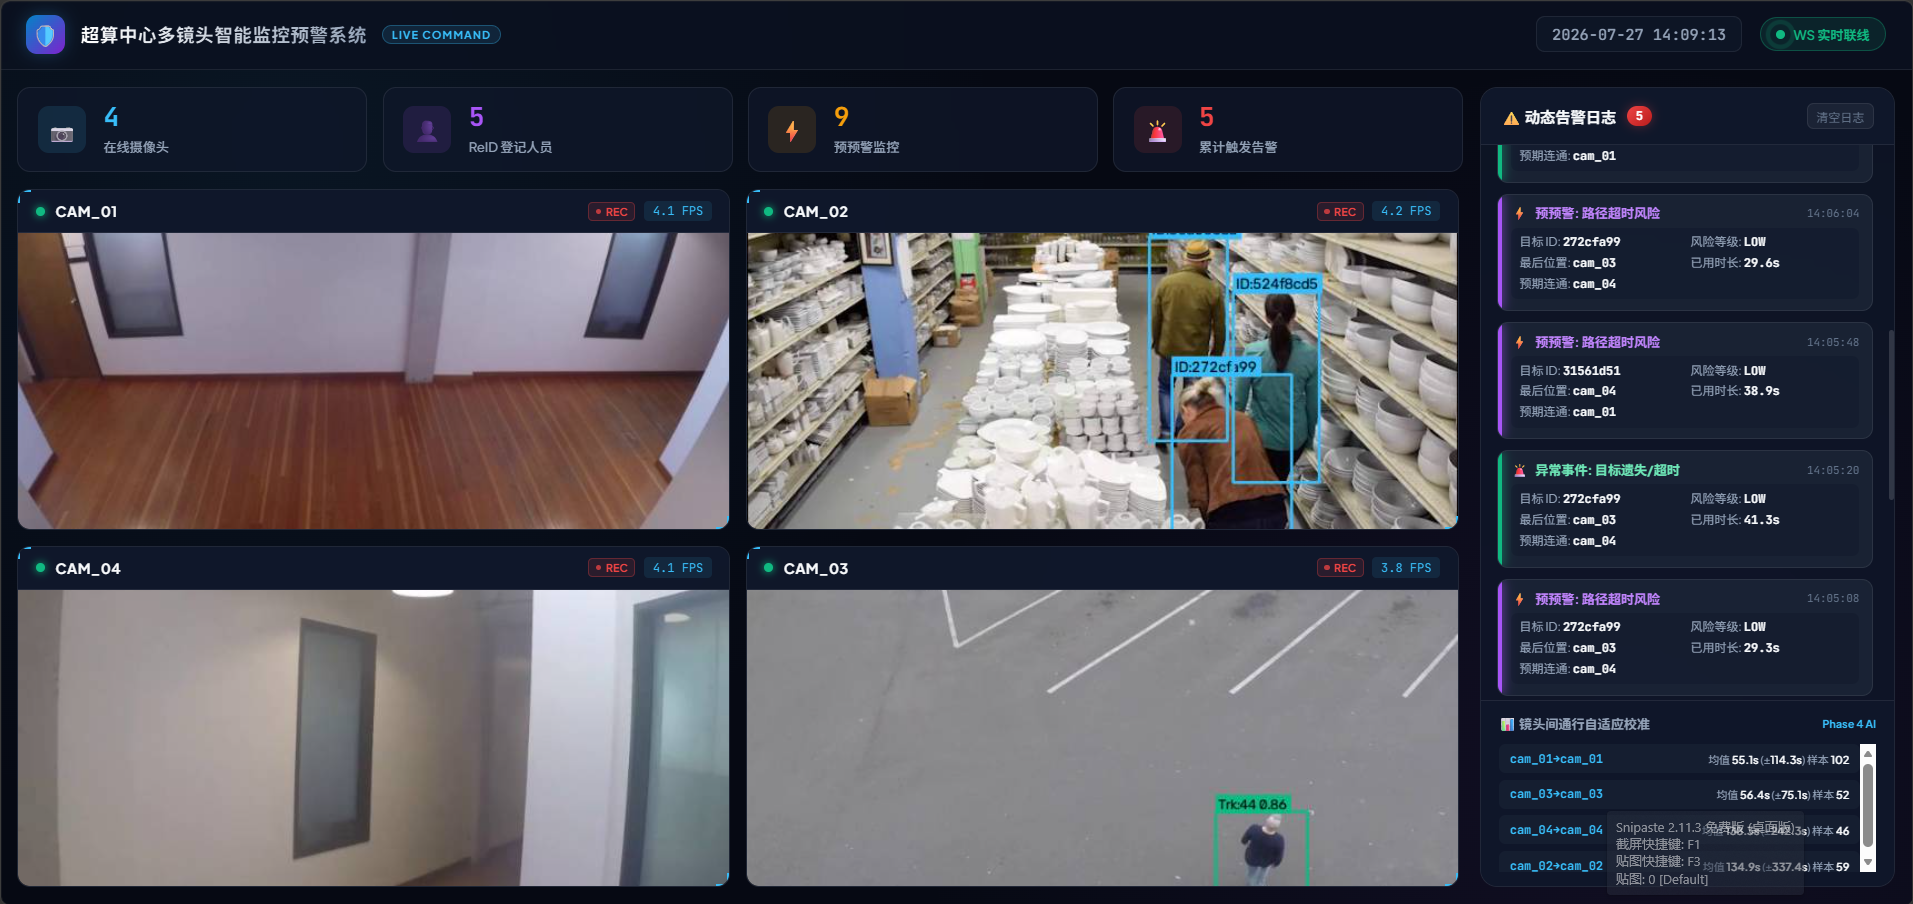
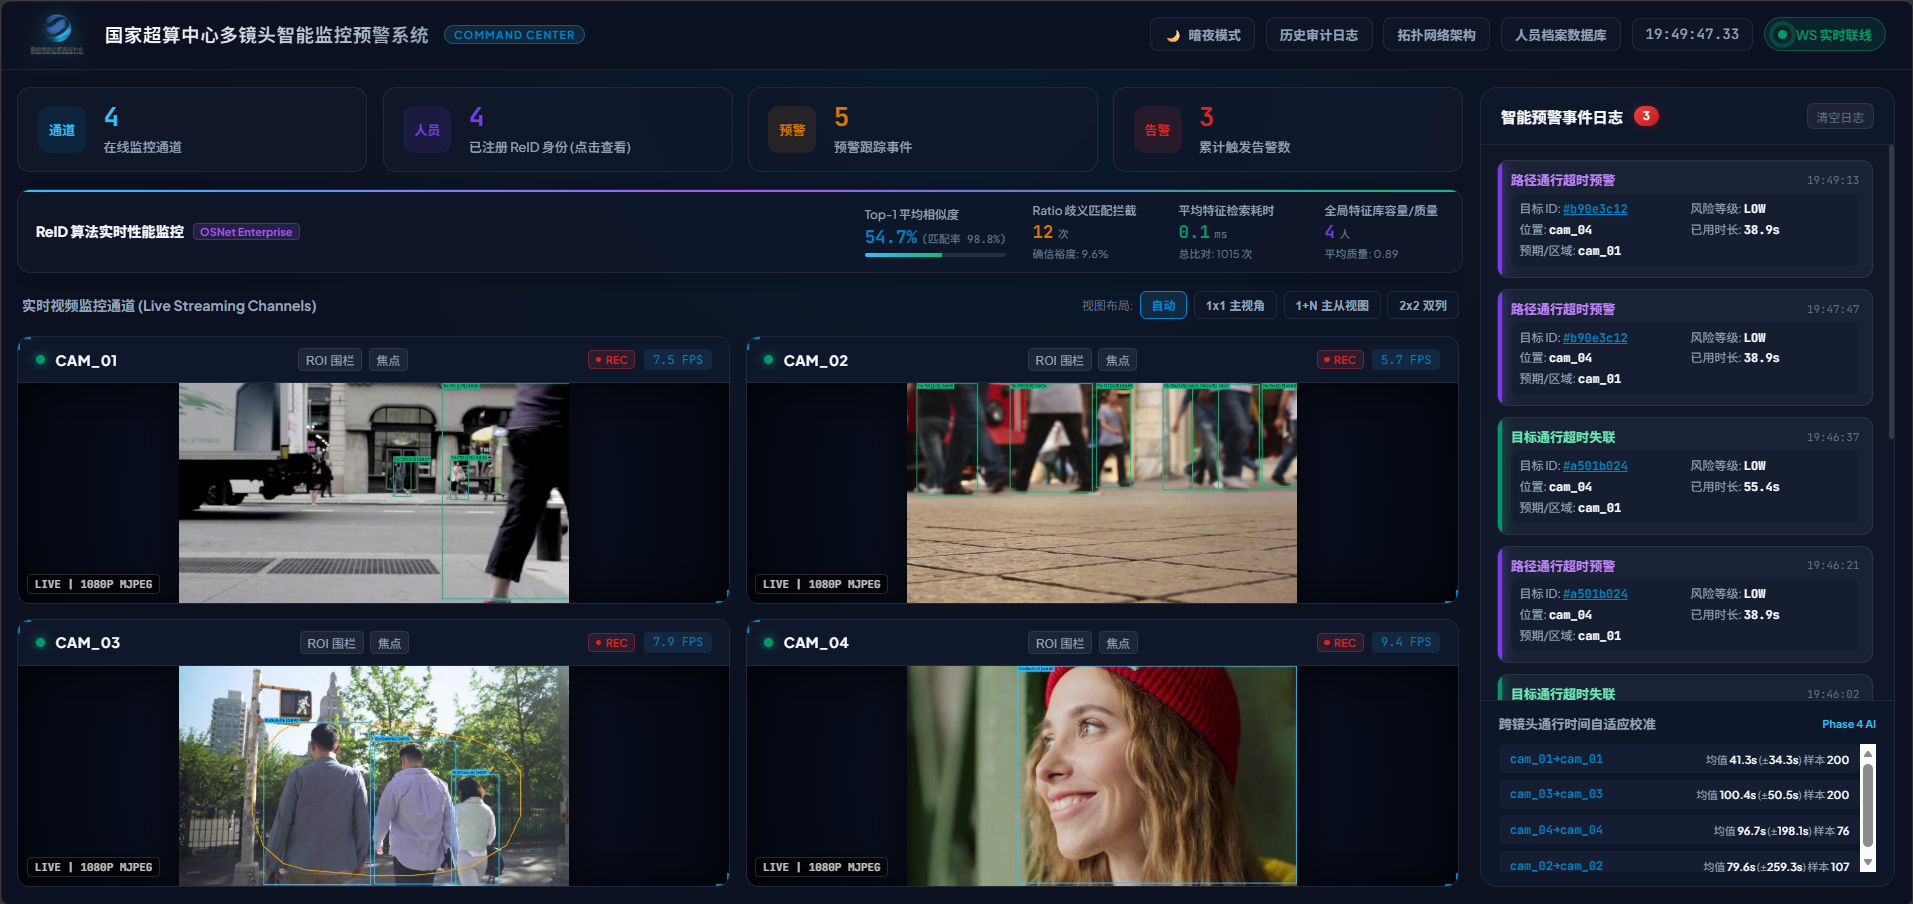
docs: 同步更正系统文档与更新 README 预览图

diff --git a/docs/SYSTEM_PRINCIPLES.md b/docs/SYSTEM_PRINCIPLES.md
@@ -6,7 +6,7 @@
 
 ## 📌 一、 系统总体架构
 
-系统采用 **“多源感知 ➔ ReID 跨摄归一 ➔ 拓扑空间约束 ➔ 智能告警 ➔ 实时指挥大屏”** 的闭环架构：
+系统采用 **“多源感知 ➔ ReID 跨摄归一 ➔ 拓扑空间约束 ➔ 智能告警 ➔ 实时指挥大屏与 SQLite 持久化”** 的闭环架构：
 
 ```
 [ 多路摄像头/视频源 ] (RTSP / 本地文件)
@@ -15,15 +15,16 @@
 [ 1. 目标检测与追踪 ] (YOLOv8 + ByteTrack 实时捕获)
          │
          ▼
-[ 2. 跨镜头身份提取 ] (OSNet 512维特征 + 3帧多帧缓冲校验)
+[ 2. 跨镜头身份提取 ] (OSNet 512维特征 + 3帧多帧缓冲校验 + 多姿态 Feature Bank)
          │
          ▼
 [ 3. 空间与安全判断 ] 
-   ├─► ROI 电子围栏入侵校验 (脚下点多边形在界测试)
-   └─► 拓扑穿越与时间校准 (Z-Score AI 自适应学习)
+    ├─► ROI 电子围栏入侵校验 (脚下点多边形在界测试 cv2.pointPolygonTest)
+    ├─► 拓扑穿越与时间校准 (Z-Score AI 自适应学习)
+    └─► 全域消失与人流密度监控
          │
          ▼
-[ 4. 告警分级与广播 ] (WARNING 预预警 / ALERT 正式告警 / WebSocket 推送)
+[ 4. 告警分级与广播 ] (WARNING 预预警 / ALERT 正式告警 / WebSocket 推送 / SQLite 持久化)
          │
          ▼
 [ 5. 可视化指挥大屏 ] (HTML5 Canvas 交互 / 矢量拓扑图 / 动态日志)
@@ -34,20 +35,21 @@
 ## 🎯 二、 核心技术模块与工作原理
 
 ### 1. 目标检测与单镜头追踪 (Person Detection & Tracking)
-- **使用的技术**：**YOLOv8 (yolov8n.pt)** + **ByteTrack 算法**。
+- **使用的技术**：**YOLOv8 (yolov8n.pt)** + **Ultralytics ByteTrack 算法**。
 - **基本原理**：
-  - **检测**：YOLOv8 算法每帧扫描画面，精准提取出人体的位置边界框 (BBox)。
-  - **追踪**：利用卡尔曼滤波 (Kalman Filter) 预测人员下一帧的位置，配合匈牙利算法做运动匹配，为单镜头内的人员分配连续的轨迹 ID (`Track_ID`)。
+  - **检测**：YOLOv8 算法每帧扫描画面（GPU 下每帧检测，CPU 下隔帧检测+预测），精准提取出人体的位置边界框 (BBox)。
+  - **追踪**：利用 ByteTrack 算法结合卡尔曼滤波 (Kalman Filter) 预测人员下一帧的位置，配合匈牙利算法做运动匹配，为单镜头内的人员分配连续的轨迹 ID (`Track_ID`)。
 
 ---
 
 ### 2. ReID 跨镜头身份归一化 (Cross-Camera Person Re-ID)
 - **解决的痛点**：同一个人在镜头 A 叫 `Track_01`，走到镜头 B 变成 `Track_05`，系统如何识别为“同一个人”？
-- **使用的技术**：**OSNet-x0.25 深度网络** (512维向量) + **多帧缓冲与查重锁**。
+- **使用的技术**：**OSNet-x0.25 深度网络** (512维向量) + **多姿态 Feature Bank** + **多帧缓冲与查重锁**。
 - **基本原理**：
   1. **特征提取**：抠出目标人体图像，由 OSNet 神经网络提炼出一个 512 维的数学特征向量（如同人的“视觉指纹”）。
   2. **多帧确认**：防误判机制，连续 3 帧提取的特征一致时，才正式认定为同一身份。
-  3. **查重与注册**：在全局身份库 (`IdentityStore`) 锁内做余弦相似度匹配（阈值 0.75）。已有匹配归为老身份 `Global_ID`；无匹配则注册新 `Global_ID`。
+  3. **查重与注册**：在全局身份库 (`IdentityStore`) 锁内做余弦相似度匹配（阈值 0.75）与 Ratio Test 歧义过滤。已有匹配归为老身份 `Global_ID`；无匹配则注册新 `Global_ID`。
+  4. **多姿态特征库**：自动维护最多 5 个不同姿态/角度的特征向量库 (`Feature Bank`)，大幅增强大幅度转头、侧身等大视角变化下的召回率。
 
 ---
 
@@ -56,7 +58,7 @@
 - **使用的技术**：**射线交叉法 / 点在多边形内测试 (`cv2.pointPolygonTest`)**。
 - **基本原理**：
   1. **坐标归一化**：前端支持鼠标在监控画面上手动打点绘制多边形，坐标归一化为 `(0.0 ~ 1.0)` 比例存储，不受分辨率影响。
-  2. **脚下点检测**：算法不看头和身体，专门计算人体框底边中心点 `(Foot_X, Foot_Y)`（即脚踩的位置）。
+  2. **脚下点检测**：算法专门计算人体框底边中心点 `(Foot_X, Foot_Y)`（即脚踩的位置）。
   3. **越界判定**：计算脚下点是否落在多边形内部（距离 $\ge 0$），一旦脚踩入围栏，瞬间触发 **🚨 INTRUSION 越界闯入告警**。
 
 ---
@@ -74,17 +76,30 @@
 
 ---
 
-### 5. 可疑行为判定与两阶段告警 (Two-Stage Alert Pipeline)
-为了避免过于频繁打扰管理员，系统设计了**两阶段阶梯式响应**：
+### 5. 多类型可疑行为判定与两阶段告警 (Alert Engine)
+系统支持 4 类告警，并设计了**两阶段阶梯式响应**：
+
+- **告警类型**：
+  1. **MISSING_PERSON (超时/失踪)**：离开某相机后未在预期时间窗口到达下一相机
+  2. **INTRUSION (即时越界)**：脚踩入 ROI 危险区域电子围栏
+  3. **SCENE_EXIT (全域消失)**：从所有摄像头消失超时（默认 300s）
+  4. **CROWD_DENSITY (聚众预警)**：单相机区域内人数超过上限（默认 5人）
+
+- **阶梯响应**：
 
 | 阶段 | 触发条件 | 响应动作 | 业务含义 |
 | :--- | :--- | :--- | :--- |
-| **Stage 1: WARNING** | 耗时达到最晚 deadline 的 **70%** | 控制台预警 + WebSocket 推送紫色标志 | **预预警**：人员可能滞留，提醒关注 |
-| **Stage 2: ALERT** | 超过最晚 deadline 或 闯入 ROI | 全量红框告警 + 蜂鸣音效 + 外部邮件通知 | **正式告警**：发生明确异常，需人工排查 |
+| **Stage 1: WARNING** | 耗时达到最晚 deadline 的 **70%** 或 人流过度聚集 | 控制台预警 + WebSocket 推送紫色/黄色标志 | **预预警**：人员可能滞留或聚集，提醒关注 |
+| **Stage 2: ALERT** | 超过最晚 deadline 或 闯入 ROI / 全域消失 | 全量红框告警 + 蜂鸣音效 + 外部邮件通知 + SQLite 持久化 | **正式告警**：发生明确异常，需人工排查 |
 
 ---
 
-### 6. RTSP 断流保护与高可用 (RTSP Resiliency)
+### 6. 数据持久化与状态恢复 (Persistence Layer)
+- **机制**：内置 SQLite 数据库（`data/lab_monitor.db`），自动同步记录 `identity_records` 身份档案履历及 `alerts` 历史告警；同时配合追加式 `outputs/alerts.jsonl`，确保数据高可靠性。
+
+---
+
+### 7. RTSP 断流保护与高可用 (RTSP Resiliency)
 - **机制**：采用**无限重连 + 指数退避策略**（重连延迟从 3.0s 逐步增长至 60s），有效抵御局域网网络抖动或摄像头临时重启，保证系统 7×24 小时稳定运行不崩溃。
 
 ---
@@ -93,7 +108,7 @@
 
 > “各位领导/专家，我们的 **Lab-Monitor** 系统是一个基于 YOLOv8 与 ReID 深度学习算法的智能化实验室安全防线。
 > 
-> 系统最大的亮点在于**‘空间拓扑+动态学习’**：它不仅能认出谁是谁，还能根据实验室的摄像头网络自动学习人员在房间之间的平均通行时间。一旦发现人员超时停留、路径异常跳跃，或者脚踩入了前端画定的 ROI 危险电子围栏，系统会在 1 秒内完成抓拍并进行声光警报推送，极大提升了实验室的安全管控能力。”
+> 系统最大的亮点在于**‘空间拓扑+动态学习+多姿态 ReID’**：它不仅能识别人员身份并存储多姿态特征，还能根据实验室的摄像头网络自动学习人员在房间之间的平均通行时间。一旦发现人员超时停留、全域失踪、路径异常跳跃，或者脚踩入了前端画定的 ROI 危险电子围栏，系统会在 1 秒内完成抓拍并进行声光警报推送与 SQLite 数据持久化，极大提升了实验室的安全管控能力。”
 
 ---
 *文档更新时间：2026-07-27*

diff --git a/CLAUDE.md b/CLAUDE.md
@@ -57,10 +57,10 @@ http://localhost:8000
 main.py (主线程)
   ├─ FastAPI Web Server Thread (daemon)
   │   └─ 提供 REST API、MJPEG 流、WebSocket
-  ├─ Alert Ticker Thread (2秒轮询)
-  │   └─ AlertManager.tick() → 检测滞留/越界/异常穿越
+  ├─ Alert Ticker Thread (0.5秒轮询)
+  │   └─ AlertManager.tick() → 检测滞留/MISSING_PERSON/SCENE_EXIT
   └─ N × CameraPipeline Threads (每个摄像头一个)
-      └─ 读帧 → 检测 → 跟踪 → ReID → 更新身份库 → 推送到 FrameHub
+      └─ 读帧 → 检测 → 跟踪 → ROI越界(INTRUSION) → ReID → 更新身份库 → 推送到 FrameHub
 ```
 
 ### 全局共享组件
@@ -69,11 +69,12 @@ main.py (主线程)
 
 | 组件 | 文件 | 作用 | 线程安全 |
 |------|------|------|----------|
-| `IdentityStore` | `src/identity_store.py` | 全局 ReID 身份库 | 内置锁保护（含 register_if_new 原子操作） |
+| `IdentityStore` | `src/identity_store.py` | 全局 ReID 身份库（含 feature_bank 与 ReIDMetrics） | 内置锁保护（含 register_if_new 原子操作） |
 | `FrameHub` | `src/frame_hub.py` | JPEG 帧缓冲区（供 MJPEG 流消费） | 内置锁保护 |
-| `AlertManager` | `src/alerter.py` | 告警逻辑与历史记录 | 锁内原子修改状态（P0-1 已修复竞态） |
-| `AlertBroadcaster` | `src/alerter.py` | WebSocket 告警推送 | 线程安全（asyncio） |
+| `AlertManager` | `src/alerter.py` | 告警逻辑与历史记录 | 锁内原子修改状态 |
+| `AlertBroadcaster` | `src/alerter.py` | WebSocket 告警推送 | 线程安全（asyncio.Queue / sync queue） |
 | `TransitCalibrator` | `src/calibrator.py` | 相机间穿越时延统计 | 内置锁保护 |
+| `Database` | `src/db.py` | SQLite 数据库持久化（`data/lab_monitor.db`） | 单例模式与独立连接 |
 
 ### ReID 身份识别流程
 
@@ -87,9 +88,9 @@ CameraPipeline (src/pipeline.py)
 查询身份库 (match_feature + Ratio Test)
   ↓
 匹配成功(3帧一致) → 返回已有 global_id
-匹配失败(缓冲区满) → IdentityStore.register_if_new() 原子性查重+注册
+匹配失败(缓冲区满) → IdentityStore.register_if_new() 原子性查重+注册 (支持多姿态 feature_bank)
   ↓
-更新特征 (质量加权滑动平均，alpha 随帧质量动态调整)
+更新特征 (质量加权滑动平均，alpha 随帧质量动态调整，自动维护 feature_bank)
 ```
 
 **关键参数**：
@@ -98,18 +99,20 @@ CameraPipeline (src/pipeline.py)
 - Ratio Test：`second_sim / best_sim > 0.85` 时拒绝歧义匹配（`src/reid.py`）
 - 多帧确认：连续 3 帧匹配同一 ID 才确认（`confirm_frames=3`）
 - 注册防重：`register_if_new()` 在锁内原子执行查重+注册，防多摄像头并发重复注册
+- 多姿态特征库：`feature_bank` 保存最多 5 个差异明显特征（相似度 < 0.92），提升大视角变化下的检索召回率
 
 ### 告警触发机制
 
-`AlertManager.tick()` 每 2 秒扫描所有活跃身份，检测三类异常：
+`AlertManager.tick()` 每 0.5 秒扫描所有活跃身份，支持以下告警类型：
 
-1. **滞留告警**：同一相机内停留超过预设时间窗口
-2. **越界告警**：出现在非拓扑相邻相机（跳跃式转移）
-3. **异常穿越**：转移时间超出校准统计的 ±σ 范围（基于 `TransitCalibrator` 自适应学习）
+1. **MISSING_PERSON (超时/失踪)**：人员离开某相机后，未在预期时间窗口内到达拓扑相邻相机
+2. **INTRUSION (即时越界/围栏)**：人员脚下点踩入 ROI 电子围栏危险区域（由 `cv2.pointPolygonTest` 即时触发）
+3. **SCENE_EXIT (全域消失)**：人员从所有摄像头消失超过设定期限（默认 300 秒）
+4. **CROWD_DENSITY (聚众预警)**：区域内检测到的人数超过设定阈值（默认 5 人）
 
 告警分两阶段触发：
-- **WARNING**（70% deadline）：控制台预警，WebSocket 推送，不触发外部通知
-- **ALERT**（100% deadline）：全量告警 + 邮件/外部通知
+- **WARNING**（70% deadline）：控制台预警，WebSocket 推送紫色/黄色标志，不触发外部通知
+- **ALERT**（100% deadline / INTRUSION）：全量告警 + 邮件/外部通知 + 数据库持久化
 
 > 告警逻辑在 `src/alerter.py` 中实现，时间窗口由 `config/topology.json` + `TransitCalibrator` 动态校准。
 
@@ -126,12 +129,15 @@ CameraPipeline (src/pipeline.py)
 ```
 
 ### config/topology.json
-有向图，定义相机间的邻接关系和预期穿越时间（秒）：
+按起始摄像头 ID 映射下游相邻摄像头列表，定义相机间的邻接关系和预期穿越时间（秒）：
 ```json
 {
-  "edges": [
-    {"from": "cam_01", "to": "cam_02", "expected_seconds": 30},
-    {"from": "cam_02", "to": "cam_03", "expected_seconds": 45}
+  "cam_01": [
+    {
+      "next": "cam_02",
+      "expected_seconds": 30,
+      "tolerance_seconds": 15
+    }
   ]
 }
 ```
@@ -140,28 +146,30 @@ CameraPipeline (src/pipeline.py)
 告警通知渠道配置（支持 `console` 和 `email`）：
 ```json
 {
-  "channels": [
-    {"type": "console", "enabled": true},
-    {
-      "type": "email",
-      "enabled": false,
-      "smtp_host": "smtp.qq.com",
-      "smtp_port": 465,
-      "from_email": "your@qq.com",
-      "password": "your_auth_code",
-      "to_emails": ["recipient@example.com"]
-    }
-  ]
+  "console": {
+    "enabled": true
+  },
+  "email": {
+    "enabled": false,
+    "smtp_host": "smtp.qq.com",
+    "smtp_port": 465,
+    "use_ssl": true,
+    "username": "your@qq.com",
+    "password": "your_auth_code",
+    "from": "your@qq.com",
+    "to": ["admin@example.com"]
+  }
 }
 ```
 
 ## 运行时输出
 
-`outputs/` 目录（自动创建，`.gitignore` 已忽略）：
-- `alerts.jsonl`：追加式告警日志（每行一个 JSON 对象）
-- `transit_stats.json`：穿越时延统计（用于异常检测）
-- `screenshots/`：告警截图（按 `alert_id.jpg` 命名）
-- `server.pid`：进程 PID（`start.ps1` 写入，`stop.ps1` 读取）
+`outputs/` 目录与 `data/` 目录（自动创建，`.gitignore` 已忽略）：
+- `data/lab_monitor.db`：SQLite 数据库文件，持久化身份档案与告警日志
+- `outputs/alerts.jsonl`：追加式 JSONL 告警日志文件
+- `outputs/transit_stats.json`：穿越时延统计（用于异常检测自适应校准）
+- `outputs/screenshots/`：告警截图（按 `alert_id.jpg` 命名）
+- `outputs/server.pid`：进程 PID（`start.ps1` 写入，`stop.ps1` 读取）
 
 ## 常见开发任务
 

diff --git a/README.md b/README.md
@@ -43,22 +43,24 @@ lab-monitor/
 │   ├── sources.json         # 视频源配置（本地视频 / RTSP）
 │   ├── topology.json        # 摄像头拓扑与预估穿越时间配置
 │   └── notify.json          # 告警通知渠道配置（Console / Email）
+├── data/                    # 本地数据库持久化目录（自动生成）
+│   └── lab_monitor.db       # SQLite 数据库文件（身份履历与告警记录）
 ├── docs/                    # 项目文档与资源
 │   ├── deployment.md        # 详细部署与 GPU 配置指南
+│   ├── SYSTEM_PRINCIPLES.md # 系统核心技术原理与机制说明
 │   └── images/              # 效果截图与 Logo 资源
-
-│       └── readme.png
 ├── src/                     # 核心源码目录
 │   ├── alerter.py           # 告警管理与广播器
 │   ├── calibrator.py        # 轨迹转移时延校准器
+│   ├── db.py                # SQLite 数据库操作层
 │   ├── detector.py          # YOLOv8 目标检测器
 │   ├── frame_hub.py         # 视频帧共享缓冲区
-│   ├── identity_store.py    # 全局 ReID 身份数据库
+│   ├── identity_store.py    # 全局 ReID 身份数据库（多姿态 Feature Bank）
 │   ├── notifier.py          # 告警通知发送器
 │   ├── pipeline.py          # 多摄像头流水线逻辑
 │   ├── reid.py              # ReID 特征提取
 │   ├── reid_validator.py    # 特征校验与匹配
-│   ├── topology.py          # 相机拓扑拓扑关系
+│   ├── topology.py          # 相机拓扑关系
 │   └── tracker.py           # 目标轨迹跟踪器
 ├── static/                  # Web 前端静态资源
 ├── main.py                  # 系统主入口

diff --git a/docs/deployment.md b/docs/deployment.md
@@ -107,13 +107,11 @@ pip install -r requirements.txt
 pip install -r requirements.txt
 ```
 
-#### 步骤 4：启用代码中的 GPU 加速
-修改 `main.py` 中的模型加载配置，将 `device` 设置为 `"cuda"` 或 `"cuda:0"`：
+#### 步骤 4：运行系统（自动触发 GPU 加速）
+`main.py` 内部会自动调用 `torch.cuda.is_available()` 检测 GPU 硬件，并自动完成 CUDA + FP16 半精度加速配置和优化参数切换（如 30fps 高帧率模式），无需手动修改代码逻辑：
 
-```python
-# main.py
-detector       = PersonDetector(model_name="yolov8n.pt", conf_thresh=0.4, device="cuda")
-reid_extractor = ReIDExtractor(device="cuda")
+```bash
+python main.py
 ```
 
 ---
@@ -142,12 +140,16 @@ reid_extractor = ReIDExtractor(device="cuda")
 ```json
 {
   "cam_01": [
-    {"next": "cam_02", "expected_seconds": 30},
-    {"next": "cam_03", "expected_seconds": 45}
-  ],
-  "cam_02": [
-    {"next": "cam_03", "expected_seconds": 20},
-    {"next": "cam_04", "expected_seconds": 35}
+    {
+      "next": "cam_02",
+      "expected_seconds": 30,
+      "tolerance_seconds": 15
+    },
+    {
+      "next": "cam_03",
+      "expected_seconds": 45,
+      "tolerance_seconds": 15
+    }
   ]
 }
 ```
